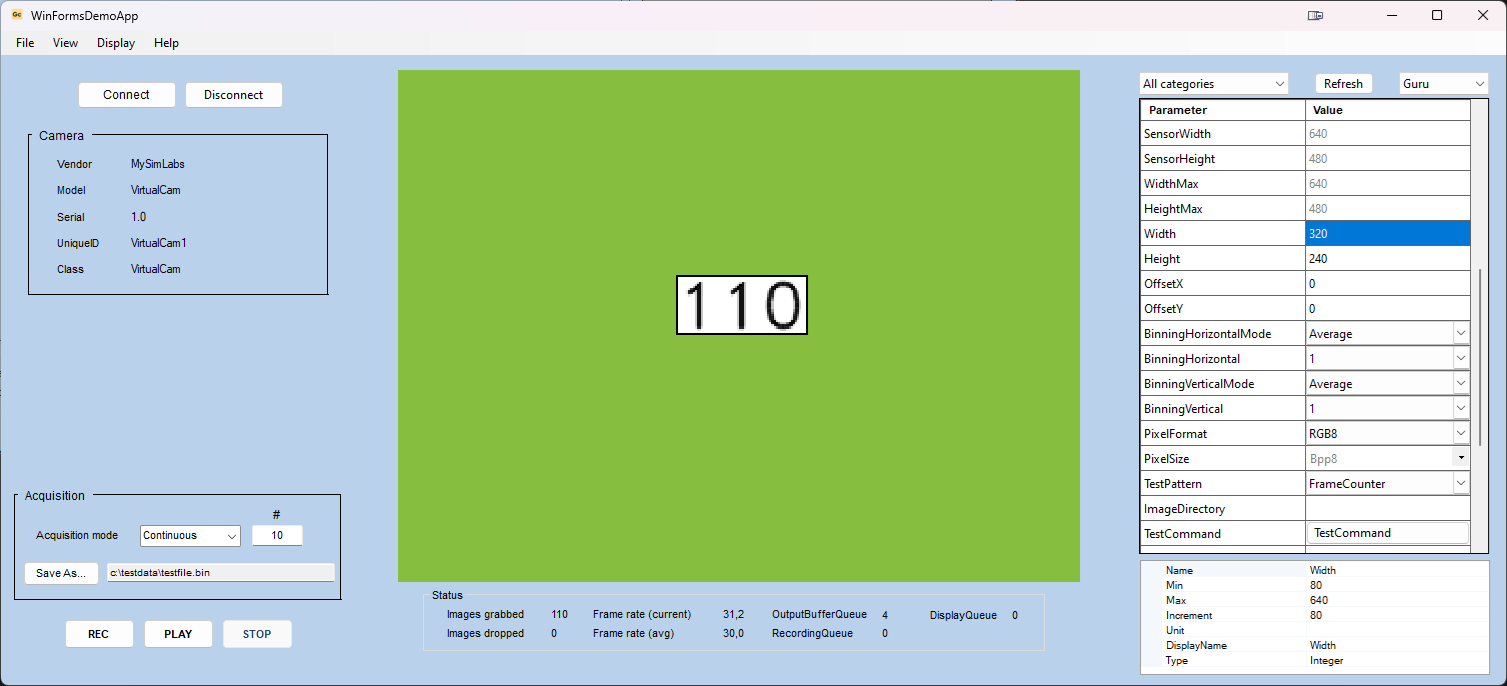
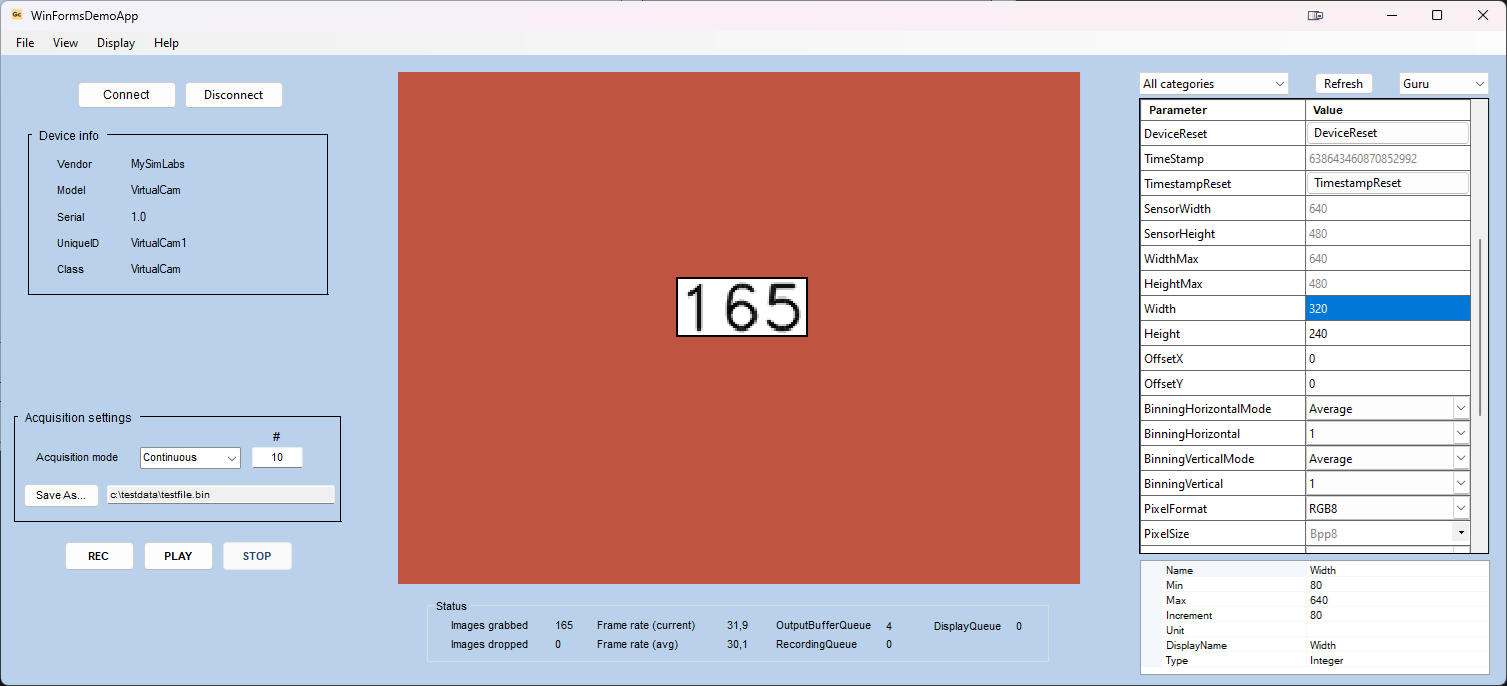
Updated demo app.

diff --git a/samples/GcLib.Samples.WinFormsDemoApp/Forms/WinFormsDemoApp.Designer.cs b/samples/GcLib.Samples.WinFormsDemoApp/Forms/WinFormsDemoApp.Designer.cs
@@ -110,7 +110,7 @@ partial class WinFormsDemoApp
         DeviceInfoPanel.Size = new System.Drawing.Size(301, 168);
         DeviceInfoPanel.TabIndex = 19;
         DeviceInfoPanel.TabStop = false;
-        DeviceInfoPanel.Text = "Camera";
+        DeviceInfoPanel.Text = "Device info";
         // 
         // ClassLabel
         // 
@@ -236,14 +236,14 @@ partial class WinFormsDemoApp
         AcquisitionPanel.Controls.Add(AcquisitionModeComboBox);
         AcquisitionPanel.Controls.Add(AcquisitionModeTitle);
         AcquisitionPanel.Font = new System.Drawing.Font("Arial", 8.5F);
-        AcquisitionPanel.Location = new System.Drawing.Point(13, 457);
+        AcquisitionPanel.Location = new System.Drawing.Point(13, 379);
         AcquisitionPanel.Margin = new System.Windows.Forms.Padding(4, 3, 4, 3);
         AcquisitionPanel.Name = "AcquisitionPanel";
         AcquisitionPanel.Padding = new System.Windows.Forms.Padding(4, 3, 4, 3);
         AcquisitionPanel.Size = new System.Drawing.Size(328, 113);
         AcquisitionPanel.TabIndex = 4;
         AcquisitionPanel.TabStop = false;
-        AcquisitionPanel.Text = "Acquisition";
+        AcquisitionPanel.Text = "Acquisition settings";
         // 
         // SaveImagesTextBox
         // 
@@ -314,7 +314,7 @@ partial class WinFormsDemoApp
         // 
         RecordButton.Enabled = false;
         RecordButton.Font = new System.Drawing.Font("Arial", 8.25F, System.Drawing.FontStyle.Bold);
-        RecordButton.Location = new System.Drawing.Point(63, 588);
+        RecordButton.Location = new System.Drawing.Point(63, 510);
         RecordButton.Margin = new System.Windows.Forms.Padding(4, 3, 4, 3);
         RecordButton.Name = "RecordButton";
         RecordButton.Size = new System.Drawing.Size(71, 30);
@@ -327,7 +327,7 @@ partial class WinFormsDemoApp
         // 
         StopButton.Enabled = false;
         StopButton.Font = new System.Drawing.Font("Arial", 8.25F, System.Drawing.FontStyle.Bold);
-        StopButton.Location = new System.Drawing.Point(221, 588);
+        StopButton.Location = new System.Drawing.Point(221, 510);
         StopButton.Margin = new System.Windows.Forms.Padding(4, 3, 4, 3);
         StopButton.Name = "StopButton";
         StopButton.Size = new System.Drawing.Size(71, 30);
@@ -340,7 +340,7 @@ partial class WinFormsDemoApp
         // 
         PlayButton.Enabled = false;
         PlayButton.Font = new System.Drawing.Font("Arial", 8.25F, System.Drawing.FontStyle.Bold);
-        PlayButton.Location = new System.Drawing.Point(142, 588);
+        PlayButton.Location = new System.Drawing.Point(142, 510);
         PlayButton.Margin = new System.Windows.Forms.Padding(4, 3, 4, 3);
         PlayButton.Name = "PlayButton";
         PlayButton.Size = new System.Drawing.Size(71, 30);
@@ -366,10 +366,10 @@ partial class WinFormsDemoApp
         DisplayPanel.Controls.Add(StatusControl);
         DisplayPanel.Controls.Add(PlayBackControl);
         DisplayPanel.Controls.Add(DisplayControl);
-        DisplayPanel.Location = new System.Drawing.Point(341, 27);
+        DisplayPanel.Location = new System.Drawing.Point(356, 38);
         DisplayPanel.Margin = new System.Windows.Forms.Padding(4, 3, 4, 3);
         DisplayPanel.Name = "DisplayPanel";
-        DisplayPanel.Size = new System.Drawing.Size(785, 626);
+        DisplayPanel.Size = new System.Drawing.Size(766, 615);
         DisplayPanel.TabIndex = 23;
         // 
         // StatusControl
@@ -377,7 +377,7 @@ partial class WinFormsDemoApp
         StatusControl.DataStream = null;
         StatusControl.DisplayThread = null;
         StatusControl.ImageWriter = null;
-        StatusControl.Location = new System.Drawing.Point(77, 530);
+        StatusControl.Location = new System.Drawing.Point(66, 530);
         StatusControl.Name = "StatusControl";
         StatusControl.Size = new System.Drawing.Size(630, 72);
         StatusControl.TabIndex = 7;
@@ -385,14 +385,14 @@ partial class WinFormsDemoApp
         // PlayBackControl
         // 
         PlayBackControl.BackColor = System.Drawing.Color.Transparent;
-        PlayBackControl.Location = new System.Drawing.Point(18, 530);
+        PlayBackControl.Location = new System.Drawing.Point(3, 521);
         PlayBackControl.Name = "PlayBackControl";
         PlayBackControl.Size = new System.Drawing.Size(759, 61);
         PlayBackControl.TabIndex = 6;
         // 
         // DisplayControl
         // 
-        DisplayControl.Location = new System.Drawing.Point(18, 12);
+        DisplayControl.Location = new System.Drawing.Point(3, 3);
         DisplayControl.Name = "DisplayControl";
         DisplayControl.ShowFPS = false;
         DisplayControl.ShowFrameID = false;
